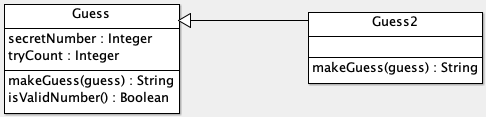
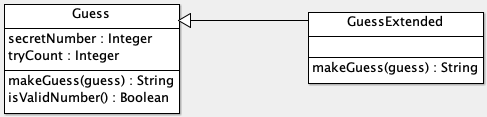
Guess2 => GuessExtended, and the class-diagram is also updated correspondingly

diff --git a/Assignment1-guess-number/Iteration2/spec/test-case-02.js b/Assignment1-guess-number/Iteration2/spec/test-case-02.js
@@ -3,7 +3,7 @@ describe("make a guess", function () {
   describe("generate a secret number", function () {
       var theGuessObject;
       beforeEach(function () {
-          theGuessObject = new Guess2(42);
+          theGuessObject = new GuessExtended(42);
       });
 
       it("the secretNumber should be 42", function () {

diff --git a/Assignment1-guess-number/Iteration2/spec/test-case-01.js b/Assignment1-guess-number/Iteration2/spec/test-case-01.js
@@ -4,7 +4,7 @@ describe("Basic Check For Original Source Code", function () {
   describe("Guess", function () {
       var theGuessObject;
       beforeEach(function () {
-        theGuessObject = new Guess2();
+        theGuessObject = new GuessExtended();
       });
 
       describe("the secretNumber property", function () {

diff --git a/Assignment1-guess-number/Iteration2/src/index-iter1.html b/Assignment1-guess-number/Iteration2/src/index-iter1.html
@@ -30,6 +30,7 @@
   </div>
 
   <script src="model.js"></script>
+  <script src="model-extended.js"></script>
   <script src="controller.js"></script>
 </body>
 </html>

diff --git a/Assignment1-guess-number/Iteration2/src/model-extended.js b/Assignment1-guess-number/Iteration2/src/model-extended.js
@@ -1,4 +1,4 @@
-class Guess2 extends Guess {
+class GuessExtended extends Guess {
 
   constructor(aNumber) {
     super(aNumber)
